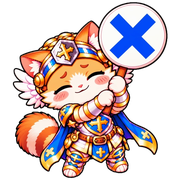
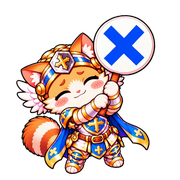
No: closed-mouth frames only, gentle sway added in code
Claude-Session: https://claude.ai/code/session_01CqN5TM8CtnKZx6KMXb1z93

diff --git a/line-stickers/animated-emoji/26-no/make_no.py b/line-stickers/animated-emoji/26-no/make_no.py
@@ -1,0 +1,36 @@
+"""No: Kling opened his mouth while shaking his head (frames ~7-55), which looked wrong, so only the closed-mouth
+frames are used (58-73, ping-pong) and the gentle "no" sway is added in code: the whole figure tilts left and right
+(+-4 degrees) around his feet, twice per loop. 2 s x 2."""
+import sys, os, math
+from PIL import Image
+SRC, OUT = sys.argv[1], sys.argv[2]
+W, N, LOOP_MS, TILT = 540, 20, 2000, 4.0
+base = [58, 60, 62, 64, 66, 68, 70, 72, 73, 72, 70, 68, 66, 64, 62, 60, 58, 59, 61, 63]
+src = {i: Image.open(f"{SRC}/{i:03d}.png") for i in set(base)}
+bbs = [src[i].getbbox() for i in src]
+box = (min(b[0] for b in bbs), min(b[1] for b in bbs), max(b[2] for b in bbs), max(b[3] for b in bbs))
+s = (W - 70) / max(box[2] - box[0], box[3] - box[1])          # margin so the tilted sign stays inside
+cw, ch = round((box[2]-box[0])*s), round((box[3]-box[1])*s)
+out = []
+for k, i in enumerate(base):
+    m = src[i].crop(box).convert('RGBa').resize((cw, ch), Image.LANCZOS)
+    c = Image.new('RGBa', (W, W)); c.paste(m, ((W - cw) // 2, W - 20 - ch))
+    a = TILT * math.sin(4 * math.pi * k / N)                    # two side-to-side shakes per loop
+    c = c.rotate(a, resample=Image.BICUBIC, center=(W // 2, W - 20))
+    out.append(c.convert('RGBA'))
+
+def save(frs, path, durs, loop):
+    sz = frs[0].width
+    tall = Image.new('RGBA', (sz, sz*len(frs))); [tall.paste(f, (0, sz*i)) for i, f in enumerate(frs)]
+    P = tall.quantize(colors=256, method=Image.Quantize.FASTOCTREE, dither=Image.Dither.NONE)
+    q = [P.crop((0, sz*i, sz, sz*i+sz)) for i in range(len(frs))]
+    for x in q: x.info = dict(P.info)
+    q[0].save(path, save_all=True, append_images=q[1:], duration=durs, loop=loop, disposal=0, blend=0, optimize=True)
+    print(os.path.basename(path), len(frs), 'frames', sum(durs), 'ms x', loop, os.path.getsize(path)//1024, 'KB')
+
+os.makedirs(f"{OUT}/frames", exist_ok=True)
+for f in os.listdir(f"{OUT}/frames"): os.remove(f"{OUT}/frames/{f}")
+f180 = [o.convert('RGBa').resize((180, 180), Image.LANCZOS).convert('RGBA') for o in out]
+for i, f in enumerate(f180): f.save(f"{OUT}/frames/{i+1:02d}.png")
+save(f180, f"{OUT}/no.png", [LOOP_MS // N] * N, 2)
+save([o.convert('RGBa').resize((360, 360), Image.LANCZOS).convert('RGBA') for o in out], f"{OUT}/preview-no.png", [LOOP_MS // N] * N, 0)
